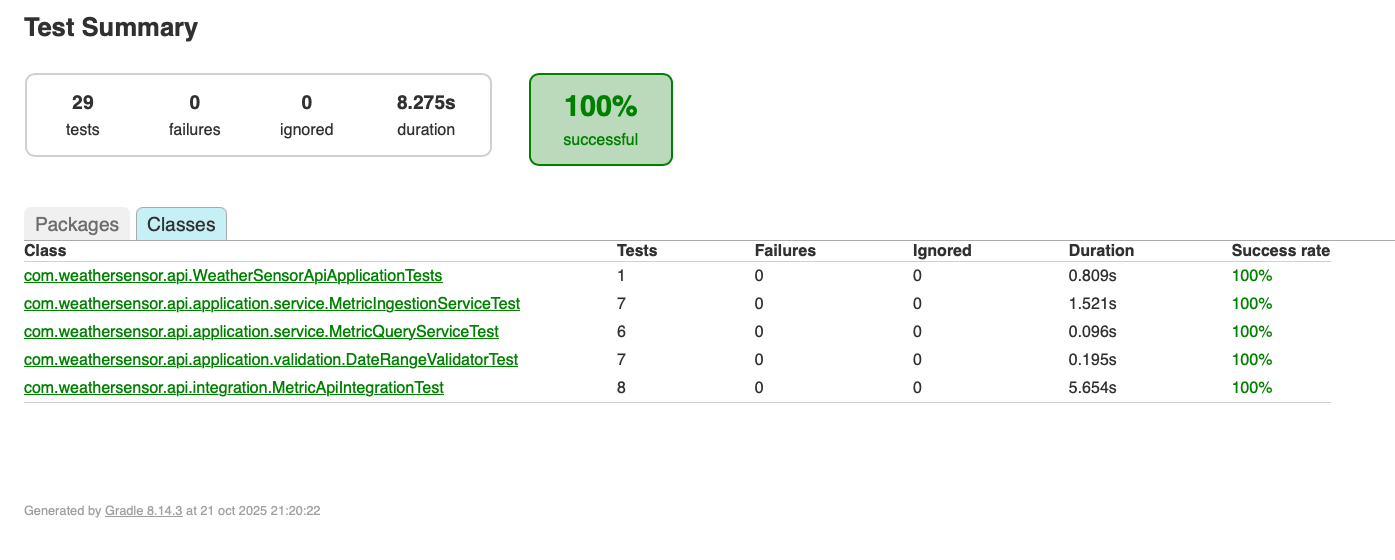
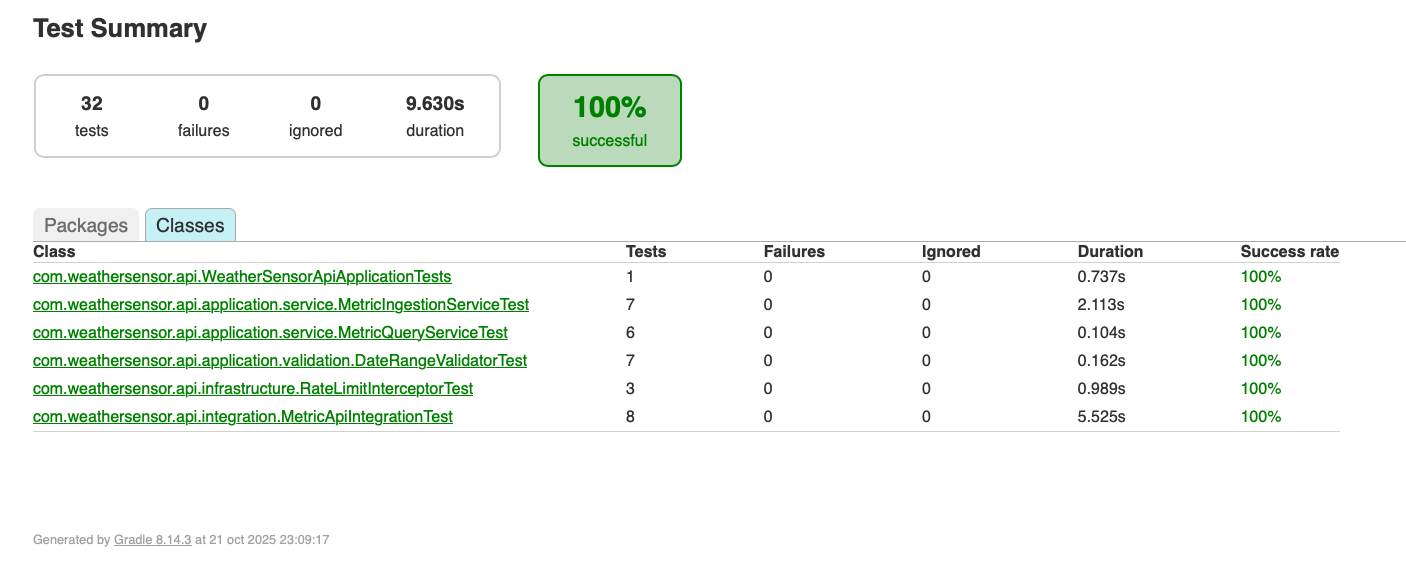
docs: finalize README and test-report screenshots for v1.2.0 (Rate Limiting)
Scope:
- README: add Rate Limiting (Bucket4j) section (limits, headers, endpoints, exclusions)
- README: update Project Management with Epic 8 (API Protection & Rate Limiting)
- README: update Changelog to v1.2.0
- Screenshots: add HTML test report images (overview, classes, ingestion details)

Notes:
- No code changes in this commit (docs-only)
- Feature code was completed in previous commits on this branch

diff --git a/README.md b/README.md
@@ -5,8 +5,8 @@
 ![Java](https://img.shields.io/badge/Java-17-orange.svg)
 ![Spring Boot](https://img.shields.io/badge/Spring%20Boot-3.2.1-brightgreen.svg)
 ![PostgreSQL](https://img.shields.io/badge/PostgreSQL-15-blue.svg)
-![Tests](https://img.shields.io/badge/Tests-29%20passing-success.svg)
-![Version](https://img.shields.io/badge/Version-1.1.0-blue.svg)
+![Tests](https://img.shields.io/badge/Tests-32%20passing-success.svg)
+![Version](https://img.shields.io/badge/Version-1.2.0-blue.svg)
 ![Coverage](https://img.shields.io/badge/Coverage-76%25-green.svg)
 
 ---
@@ -49,35 +49,39 @@ The project was organized using **Epic → Story → Task** hierarchy following 
 │  ├─ 📘 Story: Unit Tests (MetricQueryService, MetricIngestionService)
 │  └─ 📘 Story: Integration Tests (TestContainers)
 │
-└─ 🔷 EPIC 7: Quick Wins - Production Readiness (3 Stories, 14 Tasks)  v1.1.0
-   ├─ 📘 Story: Observability & Monitoring
-   └─ 📘 Story: Async Processing
+├─ 🔷 EPIC 7: Quick Wins - Production Readiness (3 Stories, 14 Tasks)  v1.1.0
+│  ├─ 📘 Story: Observability & Monitoring
+│  └─ 📘 Story: Async Processing
+└─ 🔷 EPIC 8: API Protection & Rate Limiting (1 Story, 6 Tasks) ✨ v1.2.0
+   └─ 📘 Story: Rate Limiting with Bucket4j
 ```
 
 ### Story Points Distribution
 
-| Epic                      | Stories | Tasks  | Story Points | Status      |
-| ------------------------- | ------- | ------ | ------------ | ----------- |
-| Epic 1: Infrastructure    | 3       | 6      | 9            | ✅ Done     |
-| Epic 2: Domain Layer      | 3       | 6      | 8            | ✅ Done     |
-| Epic 3: Application Layer | 3       | 5      | 10           | ✅ Done     |
-| Epic 4: Web Layer         | 2       | 4      | 5            | ✅ Done     |
-| Epic 5: Validation        | 2       | 3      | 4            | ✅ Done     |
-| Epic 6: Testing           | 2       | 5      | 8            | ✅ Done     |
-| **Epic 7: Quick Wins**    | **3**   | **14** | **13**       | **✅ Done** |
-| **TOTAL**                 | **18**  | **41** | **57**       | **100%**    |
+| Epic                      | Stories | Tasks | Story Points | Status  |
+| ------------------------- | ------- | ----- | ------------ | ------- |
+| Epic 1: Infrastructure    | 3       | 6     | 9            | ✅ Done |
+| Epic 2: Domain Layer      | 3       | 6     | 8            | ✅ Done |
+| Epic 3: Application Layer | 3       | 5     | 10           | ✅ Done |
+| Epic 4: Web Layer         | 2       | 4     | 5            | ✅ Done |
+| Epic 5: Validation        | 2       | 3     | 4            | ✅ Done |
+| Epic 6: Testing           | 2       | 5     | 8            | ✅ Done |
+| Epic 7: Quick Wins        | 3       | 14    | 13           | ✅ Done |
+| Epic 8: Rate Limiting     | 1       | 6     | 5            | ✅ Done |
+| TOTAL                     | 19      | 47    | 62           | 100%    |
 
 ### Development Phases
 
-| Phase          | Duration   | Epics Completed | Key Deliverables                 |
-| -------------- | ---------- | --------------- | -------------------------------- |
-| **Setup**      | Day 1 (4h) | Epic 1          | Database + Flyway + Dependencies |
-| **Core**       | Day 1 (6h) | Epic 2-3        | Domain + Services + DTOs         |
-| **API**        | Day 2 (3h) | Epic 4          | Controllers + Swagger            |
-| **Quality**    | Day 2 (4h) | Epic 5-6        | Validators + Tests               |
-| **Production** | Day 3 (2h) | Epic 7          | Observability + Async + Docs     |
+| Phase          | Duration     | Epics Completed | Key Deliverables                 |
+| -------------- | ------------ | --------------- | -------------------------------- |
+| **Setup**      | Day 1 (4h)   | Epic 1          | Database + Flyway + Dependencies |
+| **Core**       | Day 1 (6h)   | Epic 2-3        | Domain + Services + DTOs         |
+| **API**        | Day 2 (3h)   | Epic 4          | Controllers + Swagger            |
+| **Quality**    | Day 2 (4h)   | Epic 5-6        | Validators + Tests               |
+| **Production** | Day 3 (2h)   | Epic 7          | Observability + Async + Docs     |
+| **Protection** | Day 3 (1.5h) | Epic 8          | Rate Limiting + Tests            |
 
-**Total Development Time**: ~19 hours across 3 days
+**Total Development Time**: ~20.5 hours across 3 days
 **Project Status**: 100% Complete ✅
 
 ---
@@ -283,6 +287,65 @@ POST /api/v1/metrics/async
 ```
 
 ---
+
+---
+
+### 🛡 Rate Limiting
+
+API protection against abuse using token bucket algorithm.
+
+**Configuration**:
+
+- Sustained rate: 100 requests/minute per IP
+- Burst capacity: 20 requests/second
+- In-memory storage (ConcurrentHashMap)
+- Protection on `/api/v1/metrics/**` endpoints
+
+**Rate Limit Headers**:
+
+```bash
+X-RateLimit-Limit: 100             # Max requests per minute
+X-RateLimit-Remaining: 95          # Tokens remaining
+X-RateLimit-Retry-After-Seconds: 60  # Wait time (on 429)
+```
+
+**Example - Rate Limit Exceeded**:
+
+```bash
+POST /api/v1/metrics
+# After 20 requests in 1 second...
+
+HTTP/1.1 429 Too Many Requests
+X-RateLimit-Limit: 100
+X-RateLimit-Remaining: 0
+X-RateLimit-Retry-After-Seconds: 60
+
+{
+  "error": "Too Many Requests",
+  "message": "Rate limit exceeded. Try again in 60 seconds.",
+  "status": 429
+}
+```
+
+**Protected Endpoints**:
+
+- `POST /api/v1/metrics` (sync ingestion)
+- `POST /api/v1/metrics/async` (async ingestion)
+- `POST /api/v1/metrics/batch` (batch ingestion)
+
+**Excluded from Rate Limiting**:
+
+- `/actuator/**` (monitoring)
+- `/swagger-ui/**` (documentation)
+
+**Configuration** (`application.yml`):
+
+```yaml
+rate-limit:
+  enabled: true
+  requests-per-minute: 100
+  burst-capacity: 20
+```
 
 ## Database Schema
 
@@ -604,24 +667,31 @@ src/main/resources/
 ```
 Test Pyramid:
         /\
-       /E2E\      8 tests (28%) - TestContainers + real PostgreSQL
+       /E2E\      8 tests (25%) - TestContainers + real PostgreSQL
       /------\
      /        \
-    /   Unit   \  21 tests (72%) - Mockito + isolated components
+    /   Unit   \  24 tests (75%) - Mockito + isolated components
    /------------\
 
-Total: 29 tests passing ✅
+Total: 32 tests passing ✅
 Coverage: 76%
 ```
 
 ### Test Suites
 
-| Test Suite                     | Tests       | Description                                     |
-| ------------------------------ | ----------- | ----------------------------------------------- |
-| **MetricQueryServiceTest**     | 6 tests     | Aggregation logic, date defaults, empty results |
-| **MetricIngestionServiceTest** | **7 tests** | **Sync/async ingestion, events, batch, errors** |
-| **Integration Tests**          | 8 tests     | End-to-end with real PostgreSQL                 |
-| **Validator Tests**            | 8 tests     | Custom validators, boundary conditions          |
+| Test Suite                      | Tests       | Description                                     |
+| ------------------------------- | ----------- | ----------------------------------------------- |
+| **MetricQueryServiceTest**      | 6 tests     | Aggregation logic, date defaults, empty results |
+| **MetricIngestionServiceTest**  | 7 tests     | Sync/async ingestion, events, batch, errors     |
+| **RateLimitInterceptorTest** ✨ | **3 tests** | **Rate limiting logic, headers, 429 responses** |
+| **Integration Tests**           | 8 tests     | End-to-end with real PostgreSQL                 |
+| **Validator Tests**             | 8 tests     | Custom validators, boundary conditions          |
+
+**New Tests in v1.2.0** ✨:
+
+- `shouldAllowRequestWhenWithinLimit()` - Verify rate limit allows requests
+- `shouldBlockRequestWhenLimitExceeded()` - Verify 429 response
+- `shouldAllowWhenDisabled()` - Verify bypass when disabled
 
 ### Test Report
 
@@ -650,7 +720,7 @@ open build/reports/tests/test/index.html
 **Test Report Screenshots**:
 
 ![Test Report Overview](docs/screenshots/test-report-overview.png)
-_Overview: 29 tests passing with 0 failures_
+_Overview: 32 tests passing with 0 failures_
 
 ![Test Classes Breakdown](docs/screenshots/test-report-classes.png)
 _Test classes: MetricQueryServiceTest (6), MetricIngestionServiceTest (7), Integration (8), Validators (8)_
@@ -825,7 +895,7 @@ This version prioritizes **core functionality + production monitoring** for the 
 
 ## 🚀 Future Enhancements
 
-### ✅ Implemented in v1.1.0 (Quick Wins)
+### ✅ Implemented in v1.1.0 (Quick Wins - Observability)
 
 - ✅ **Observability**: Micrometer + Actuator + Prometheus
 - ✅ **Async ingestion**: CompletableFuture + Thread Pool
@@ -833,15 +903,20 @@ This version prioritizes **core functionality + production monitoring** for the 
 - ✅ **Production metrics**: Query/ingestion counters and timers
 - ✅ **Custom health checks**: Database + Sensor connectivity
 
+### ✅ Implemented in v1.2.0 (API Protection)
+
+- ✅ **Rate Limiting**: Bucket4j token bucket (100 req/min per IP)
+- ✅ **Rate limit headers**: X-RateLimit-Limit, X-RateLimit-Remaining
+- ✅ **429 Too Many Requests**: Proper HTTP status with retry-after
+- ✅ **Configurable limits**: Via application.yml properties
+- ✅ **In-memory storage**: ConcurrentHashMap for simplicity
+
 ---
 
-### 🟢 Short-Term (Production-ready)
+### 🟢 Short-Term (Next Sprint - Not Implemented)
 
-- ✅ **API Key authentication (IoT-friendly)** with profile toggle (`X-API-Key`)
-- ✅ **Rate limiting** (Bucket4j), ideally **per API key**
-- ✅ **Redis caching** for hot queries (target: 50–70% DB offload)
-- ✅ **Cursor-based pagination** for large datasets
-- ⚙ **Grafana dashboards** for metrics visualization
+- ⏳ **Distributed rate limiting** with Redis (for horizontal scaling)
+- ⏳ **Per-API-key rate limiting** (instead of per-IP)
 
 **Acceptance criteria**: Secure endpoints, stable P99 latency, comprehensive dashboards.
 
@@ -921,6 +996,8 @@ curl http://localhost:8080/actuator/health | jq
 11. ✅ **Custom health indicators**: Proactive system monitoring
 12. ✅ **Justified trade-offs**: Every decision documented with rationale
 13. ✅ **Comprehensive testing**: 29 tests with async and concurrent scenarios
+14. ✅ **Rate limiting**: Token bucket algorithm for API protection ✨
+15. ✅ **Graceful degradation**: 429 responses with retry guidance ✨
 
 ---
 
